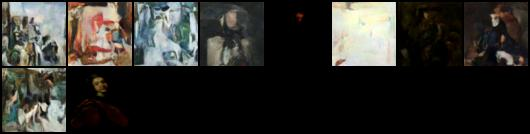
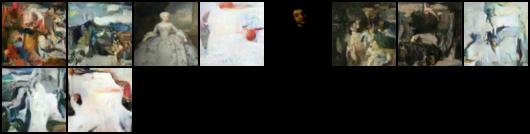
m

diff --git a/Stable_Diffusion/main.py b/Stable_Diffusion/main.py
@@ -98,7 +98,7 @@ def images():
         ckpt = torch.load(r"C:\Users\wilso\Downloads\Personal_Code_Projects\STABLE_DIFFUSION_API\Saved_Model\ckpt.pt")
         model.load_state_dict(ckpt)
         diffusion = Diffusion(img_size=64, device=device)
-        x = diffusion.sample(model, 10)
+        x = diffusion.sample(model, 8)
         saveImages(x, os.path.join("Api_Images", F"img.jpg"))
         file_name = r"C:\Users\wilso\Downloads\Personal_Code_Projects\STABLE_DIFFUSION_API\Api_Images\img.jpg"
         return send_file(file_name, mimetype="image/jpg")
